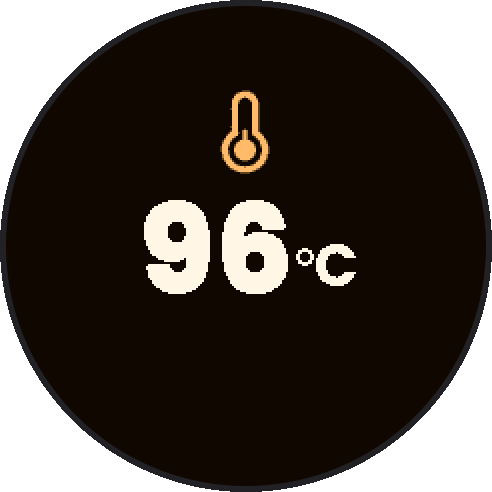
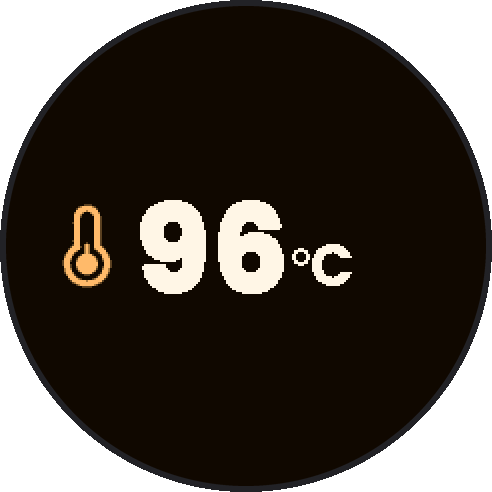
Steaming mode: the offset applies again, the thermometer is on the left of the temperature

diff --git a/src/display/Display.cpp b/src/display/Display.cpp
@@ -174,7 +174,7 @@ void drawIcons() {
   drawIcon(ICON_CLOCK_X,       ICON_CLOCK_Y,       ICON_CLOCK,       ICON_CLOCK_WIDTH,       ICON_CLOCK_HEIGHT);
 }
 
-// The thermometer alone, centered above the temperature (steaming mode).
+// The thermometer alone, left of the temperature (steaming mode).
 void drawSteamIcon() {
   drawIcon(STEAM_ICON_X, STEAM_ICON_Y, ICON_THERMOMETER, ICON_THERMOMETER_WIDTH, ICON_THERMOMETER_HEIGHT);
 }
@@ -401,25 +401,20 @@ void clearScreen() {
   temperatureField.valid = volumeField.valid = durationField.valid = false;
 }
 
-// Steaming mode: the temperature alone, in large digits (integer), centered; the unit follows it. A change of the number of
-// digits moves the number: it is then drawn as a new look (the margins are erased).
+// Steaming mode: the temperature in large digits (integer), left-aligned next to the thermometer; the unit follows it.
 void drawSteamTemperature(double value, bool error) {
-  static uint8_t length = 0;   // number of digits drawn
   if (error) {
     tft.fillRect(STEAM_ZONE_X, STEAM_ZONE_Y, STEAM_ZONE_WIDTH, STEAM_ZONE_HEIGHT, COLOR_BG);
     temperatureField.valid = false;
-    length = 0;
     putText(FONT_TAG, STEAM_ERROR_X, STEAM_ERROR_BASELINE, COLOR_TEXT, 3, F("211"));
     return;
   }
   char text[6];
   itoa(value < 0 ? 0 : (int)(value + 0.5), text, 10);
-  const uint8_t digits = strlen(text);
   bool moved;
-  const int16_t xEnd = drawNumber(temperatureField, text, TEXT_SIZE_LARGE, PHASE_TAG_NONE, digits != length,
+  const int16_t xEnd = drawNumber(temperatureField, text, TEXT_SIZE_LARGE, PHASE_TAG_NONE, false,
                                   STEAM_ZONE_X, STEAM_ZONE_Y, STEAM_ZONE_WIDTH, STEAM_ZONE_HEIGHT,
-                                  STEAM_X + (3 - digits) * STEAM_DIGIT_SHIFT, STEAM_BASELINE, moved, true);
-  length = digits;
+                                  STEAM_X, STEAM_BASELINE, moved, true);
   if (moved) {
     putText(FONT_UNIT, xEnd + TEMPERATURE_DEGREE_DX, STEAM_DEGREE_Y, COLOR_TEXT, 1, F("4"));
     putText(FONT_UNIT, xEnd + TEMPERATURE_UNIT_DX, STEAM_UNIT_BASELINE, COLOR_TEXT, 1, F("0"));

diff --git a/test/test_machine.cpp b/test/test_machine.cpp
@@ -446,7 +446,7 @@ static void steaming(){
   // a long push enters it: the screen is cleared, the heater regulates SteamingTemp, BrewingTemp stays
   calls.clear(); m.handlePush(PUSH_LONG); t+=100; m.update();
   CHECK(m.steaming_ && m.screen_.steaming() && has("clearscreen(0,0,0,0)") && has("steamicon(0,0,0,0)") && !lastSteam().empty());   // the thermometer stays
-  CHECK(m.heater_.setpoint_==135 && m.screen_.settings().temperature==DEFAULT_TEMPERATURE);
+  CHECK(m.heater_.setpoint_==135+TEMPERATURE_OFFSET && m.screen_.settings().temperature==DEFAULT_TEMPERATURE);
   // no extraction: the start button does nothing (held or not), the pushes of the encoder neither, the pump and the valve stay off
   pushButton(m); CHECK(!m.extraction_.isActive() && !PUMPON && pins[PIN_VALVE_RELAY]==0); releaseButton(m);
   m.handlePush(PUSH_SHORT); m.handlePush(PUSH_DOUBLE); t+=100; m.update();
@@ -459,7 +459,7 @@ static void steaming(){
   calls.clear(); m.adjustActiveParameter(5); t+=100; m.update();
   CHECK(lastSteam()=="steam(140,0,0,0)");
   CHECK(SettingsStore().load().steamingTemperature==140 && SettingsStore().load().temperature==DEFAULT_TEMPERATURE);
-  CHECK(m.heater_.setpoint_==140);   // no offset in the steaming mode
+  CHECK(m.heater_.setpoint_==140+TEMPERATURE_OFFSET);
   // after STEAM_SETPOINT_SHOW_MS the measured temperature is shown again
   calls.clear(); for(int i=0;i<(int)(STEAM_SETPOINT_SHOW_MS/100)+15;i++){ t+=100; m.update(); }
   CHECK(!lastSteam().empty() && lastSteam()!="steam(140,0,0,0)");
@@ -474,7 +474,7 @@ static void steaming(){
   m.handlePush(PUSH_LONG); t+=100; m.update(); CHECK(!m.steaming_ && m.extraction_.isActive());
   pushButton(m); releaseButton(m);
   // SteamingTemp is remembered at the next start
-  { CoffeeMachine m2; t=1000; m2.begin(); m2.handlePush(PUSH_LONG); CHECK(m2.heater_.setpoint_==140); }
+  { CoffeeMachine m2; t=1000; m2.begin(); m2.handlePush(PUSH_LONG); CHECK(m2.heater_.setpoint_==140+TEMPERATURE_OFFSET); }
   printf("steaming: ok\n");
 }
 // The delay of the stop before the target is learned, saved and given back at the next start

diff --git a/src/display/Layout.h b/src/display/Layout.h
@@ -52,19 +52,18 @@
 #define TEMPERATURE_UNIT_DX           11    // offset of the "C" from the end of the number
 
 // ---------- Steaming mode: the temperature alone, large digits, in the middle of the screen ----------
-// "135 °C": 3 large digits (117 px) and the unit (33 px), 150 px wide; the shorter numbers are shifted to stay centered.
-#define STEAM_X                       45    // left edge of a 3 digit number
-#define STEAM_DIGIT_SHIFT             20    // more for each digit less (half a cell)
+// The thermometer icon on the left, then "135 °C": 3 large digits (117 px) and the unit (33 px): 185 px wide with the icon, centered.
+#define STEAM_X                       63    // left edge of the number (left-aligned)
 #define STEAM_BASELINE                143    // baseline of the number (47 px high: centered on the screen)
 #define STEAM_UNIT_BASELINE           140    // baseline of the "C"
 #define STEAM_DEGREE_Y                125    // center of the degree sign
-#define STEAM_ZONE_X                  30    // zone erased before each update: x 30 -> 210
+#define STEAM_ZONE_X                  58    // zone erased before each update: x 58 -> 228 (the icon, up to x 53, is not touched)
 #define STEAM_ZONE_Y                  94    // y 94 -> 146
-#define STEAM_ZONE_WIDTH              180
+#define STEAM_ZONE_WIDTH              170
 #define STEAM_ZONE_HEIGHT             52
-#define STEAM_ICON_X                  107   // the thermometer icon, centered, above the number
-#define STEAM_ICON_Y                  42
-#define STEAM_ERROR_X                 61    // "ERR" (sensor fault), 3 times the size of the tag letters: 117 x 45 px, centered
+#define STEAM_ICON_X                  28    // the thermometer icon, left of the number, centered on the screen
+#define STEAM_ICON_Y                  99
+#define STEAM_ERROR_X                 63    // "ERR" (sensor fault), 3 times the size of the tag letters: 117 x 45 px, centered
 #define STEAM_ERROR_BASELINE          142
 
 // --------------------- Blinking dot for PID output ---------------------

diff --git a/src/coffee/CoffeeMachine.cpp b/src/coffee/CoffeeMachine.cpp
@@ -99,8 +99,7 @@ void CoffeeMachine::update() {
   }
 
   if (temperature_.isValid()) {
-    // the steaming mode has no offset: the probe temperature is regulated and shown as it is
-    screen_.showLiveTemperature(now, temperature_.celsius() - (steaming_ ? 0 : TEMPERATURE_OFFSET));
+    screen_.showLiveTemperature(now, temperature_.celsius() - TEMPERATURE_OFFSET);
   } else {
     screen_.showTemperatureError();   // the heater is off (see HeaterController)
   }
@@ -425,8 +424,7 @@ void CoffeeMachine::handleDoublePush() {
 void CoffeeMachine::saveSettings() {
   const Settings &settings = screen_.settings();
   store_.save(settings);
-  // no TEMPERATURE_OFFSET in the steaming mode
-  heater_.setSetpoint(steaming_ ? settings.steamingTemperature : settings.temperature + TEMPERATURE_OFFSET);
+  heater_.setSetpoint((steaming_ ? settings.steamingTemperature : settings.temperature) + TEMPERATURE_OFFSET);
 }
 
 // Long push: clears the no-water error, or switches between AUTO and MANUAL when nothing is going on.

diff --git a/src/display/Display.h b/src/display/Display.h
@@ -66,7 +66,7 @@ void drawDrop(bool visible, bool manual);
 // Steaming mode: the screen is cleared (everything gone, the fields are drawn again in full afterwards), then only the
 // temperature is drawn, in large digits in the middle of the screen. error: "ERR" instead (probe fault).
 void clearScreen();
-// The thermometer icon alone, above the temperature (steaming mode). Does nothing if DISPLAY_ICONS is not defined.
+// The thermometer icon alone, left of the temperature (steaming mode). Does nothing if DISPLAY_ICONS is not defined.
 void drawSteamIcon();
 void drawSteamTemperature(double value, bool error);
 

diff --git a/README.md b/README.md
@@ -171,11 +171,11 @@ other modes, and both are kept in the EEPROM.
 
 - **No extraction**: the extraction is not updated (no volume is read), the pump and the valve stay off, the start / stop button does
   nothing, and the short and double pushes neither.
-- **The screen** shows the temperature alone, in large digits in the middle, with the thermometer icon above it (no other icon, no volume, no duration, no heater dot); `ERR` if
+- **The screen** shows the temperature alone, in large digits in the middle, with the thermometer icon on its left as in the other modes (no other icon, no volume, no duration, no heater dot); `ERR` if
   the probe fails.
 - **The encoder** sets SteamingTemp: the setpoint is shown for 2 s after each turn (`STEAM_SETPOINT_SHOW_MS`), then the measured
   temperature comes back. It is saved at each change and applied to the heater at once.
-- **No offset**: the probe temperature is regulated at SteamingTemp and shown as it is (`TEMPERATURE_OFFSET` is not applied in this mode).
+- **The offset** (`TEMPERATURE_OFFSET`) applies as in the other modes: the probe is regulated at SteamingTemp + offset and the screen shows probe − offset.
 - **Leaving it**: the brewing setpoint is applied again, the real screen is drawn again in full with the volume selected. The mode is
   not saved: after a reboot the machine is in brewing mode. The standby works as in the other modes.
 

diff --git a/CLAUDE.md b/CLAUDE.md
@@ -52,7 +52,7 @@ The README describes the behaviour. The user writes in French: reply in French.
   `steaming_`: `updateExtraction()` / `showExtraction()` are not called (no volume read), the start button does nothing, short and double
   pushes are ignored, `saveSettings()` applies the steaming setpoint; the screen (`ScreenController::enterSteaming/leaveSteaming`,
   `Display::drawSteamTemperature`) shows the temperature alone in large digits, the setpoint for `STEAM_SETPOINT_SHOW_MS` after a turn.
-  No `TEMPERATURE_OFFSET` in this mode (asked by the user 2026-11-19): setpoint and display are the raw probe. Not saved across a reboot. `handleLongPush()` is the old AUTO/MANUAL + clear-error code, now called by the short push.
+  `TEMPERATURE_OFFSET` applies as in the other modes (the user tried without it, then asked to keep it, 2026-11-19). Not saved across a reboot. `handleLongPush()` is the old AUTO/MANUAL + clear-error code, now called by the short push.
 
 ## Tests (host, no Arduino)
 - `./test/run.sh` runs all tests (needs bash and g++; on Windows use WSL or Git Bash).
